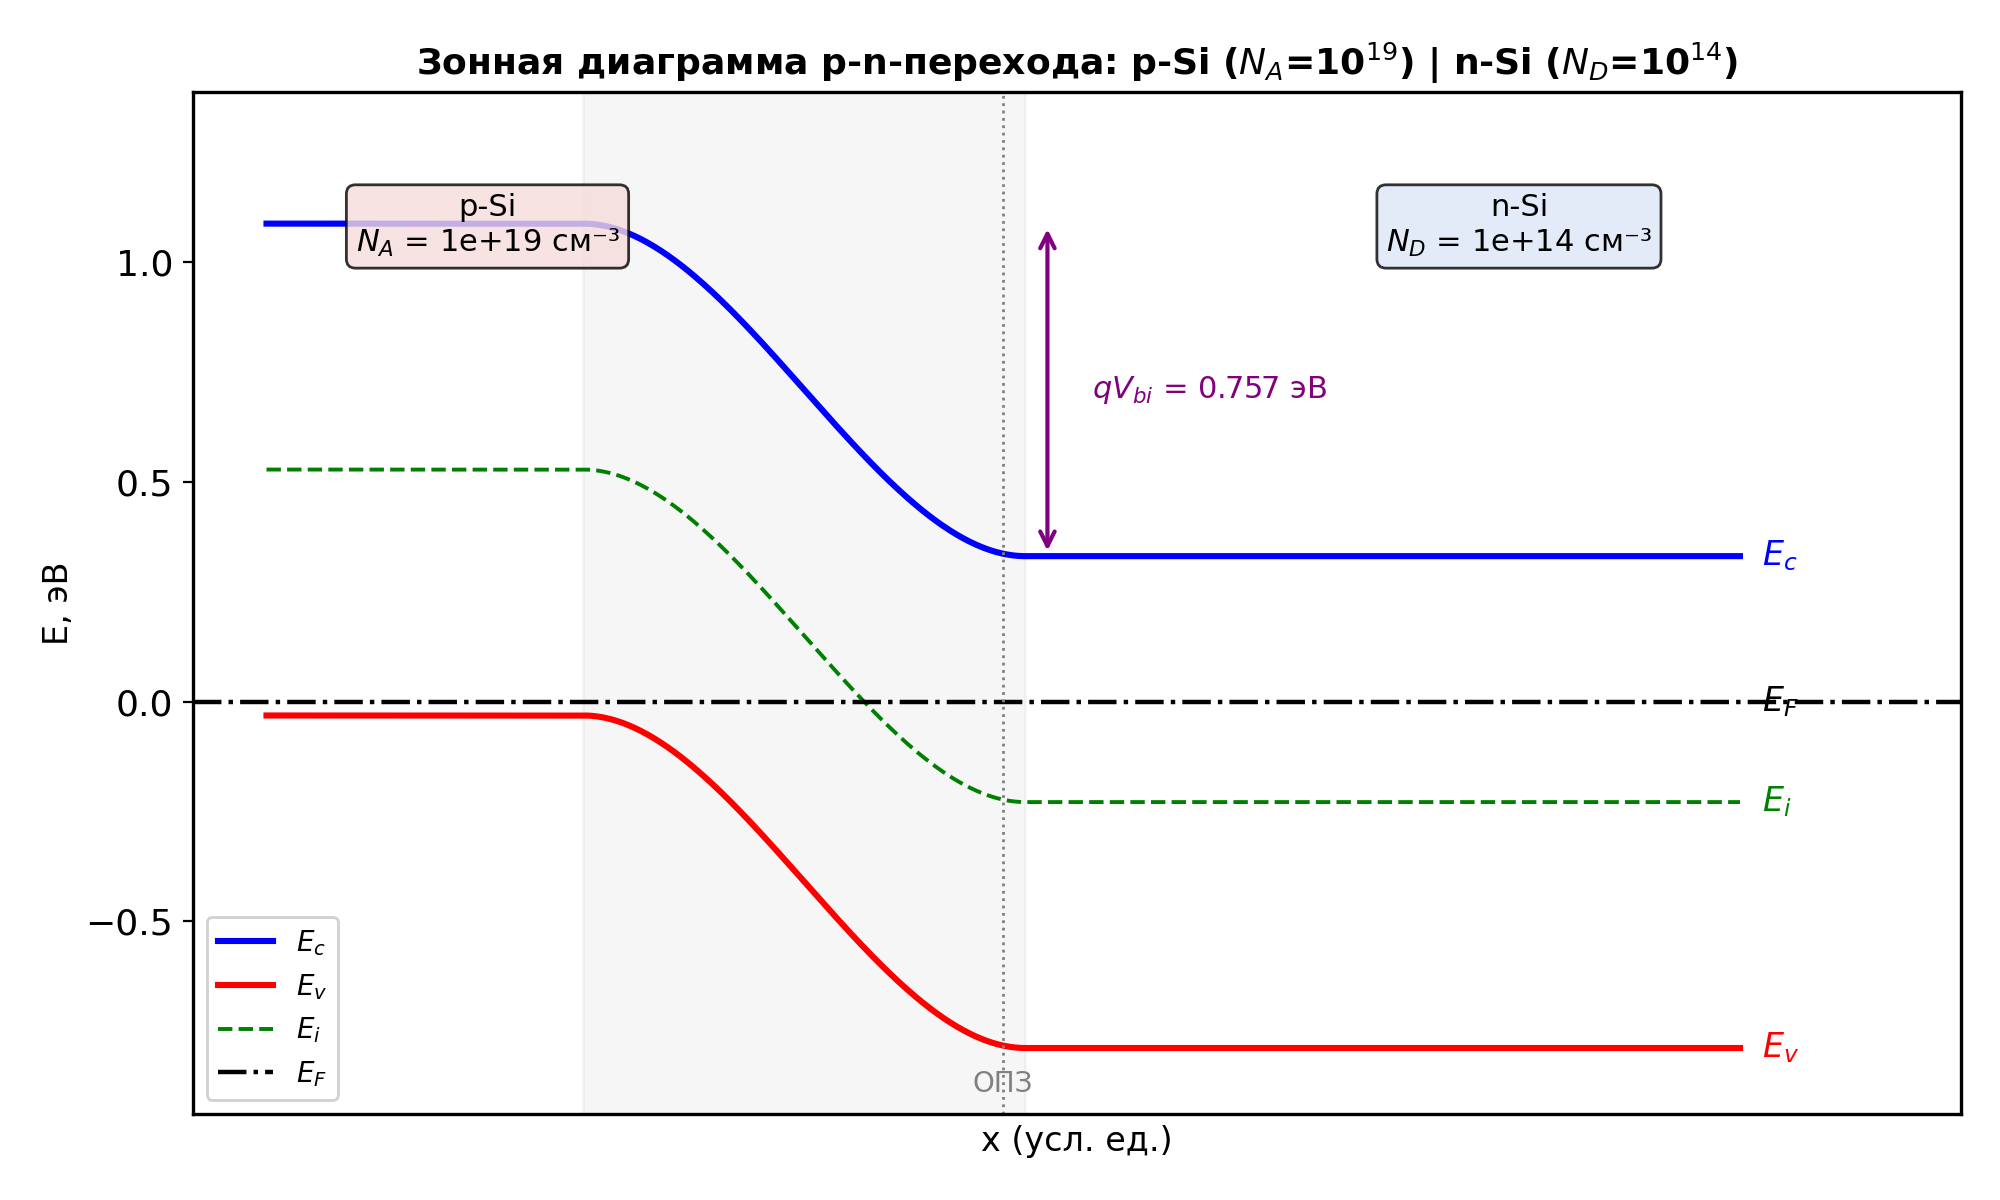
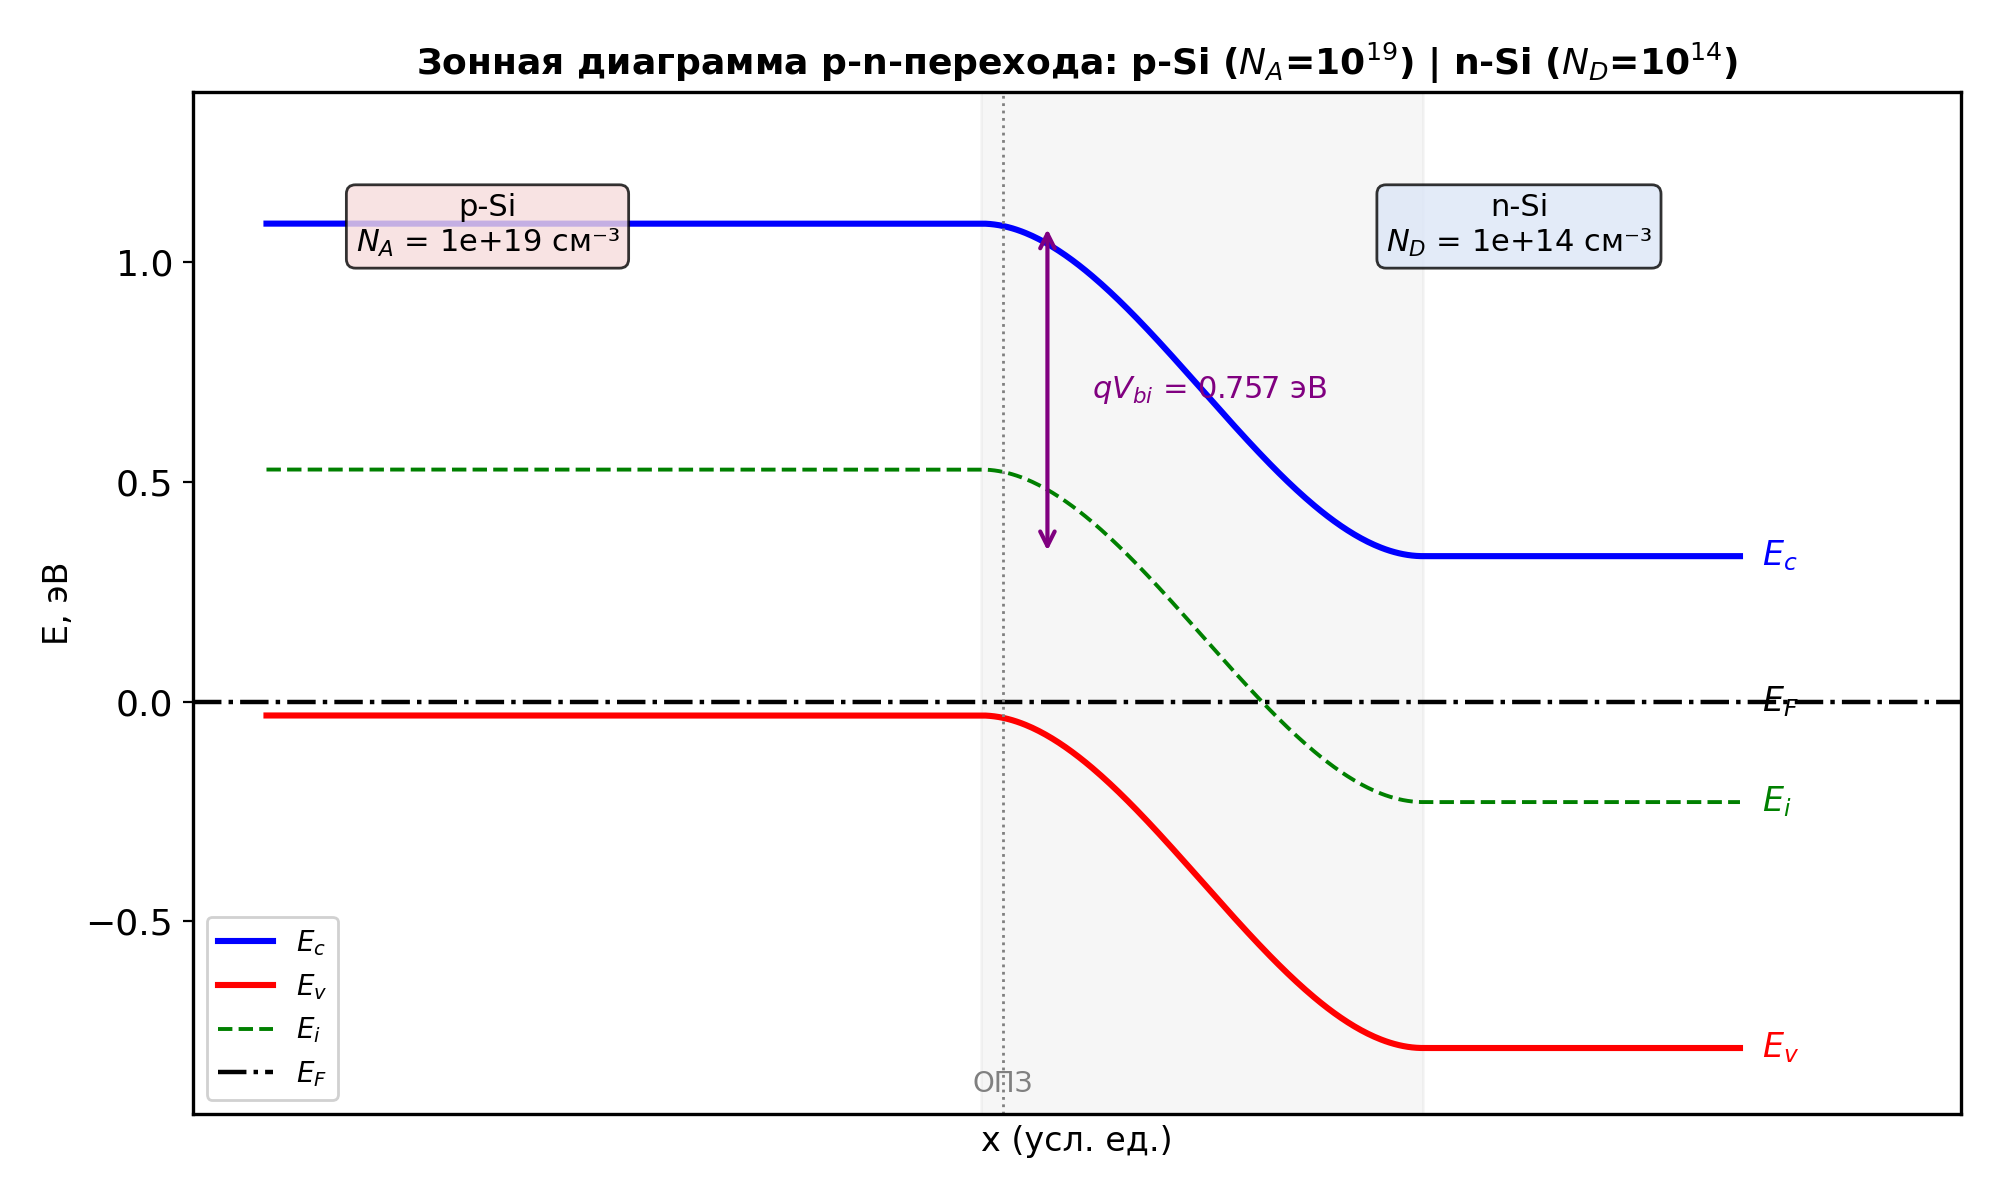
fix: корректное смещение ОПЗ в сторону слабо легированной области

diff --git a/generate_band_diagrams.py b/generate_band_diagrams.py
@@ -69,11 +69,7 @@ def draw_band_diagram(ax, Nd, Na, title, n_left=True):
     # Общая длина = 10 условных единиц
     # ОПЗ в центре; делим ОПЗ пропорционально
     W_total = 3.0  # условная ширина ОПЗ на графике
-    if n_left:
-        frac_n = p['xn_over_xp'] / (1.0 + p['xn_over_xp'])
-    else:
-        frac_n = 1.0 / (1.0 + p['xn_over_xp'])
-
+    frac_n = p['xn_over_xp'] / (1.0 + p['xn_over_xp'])
     frac_n = np.clip(frac_n, 0.05, 0.95)
     W_n = W_total * frac_n
     W_p = W_total * (1.0 - frac_n)
